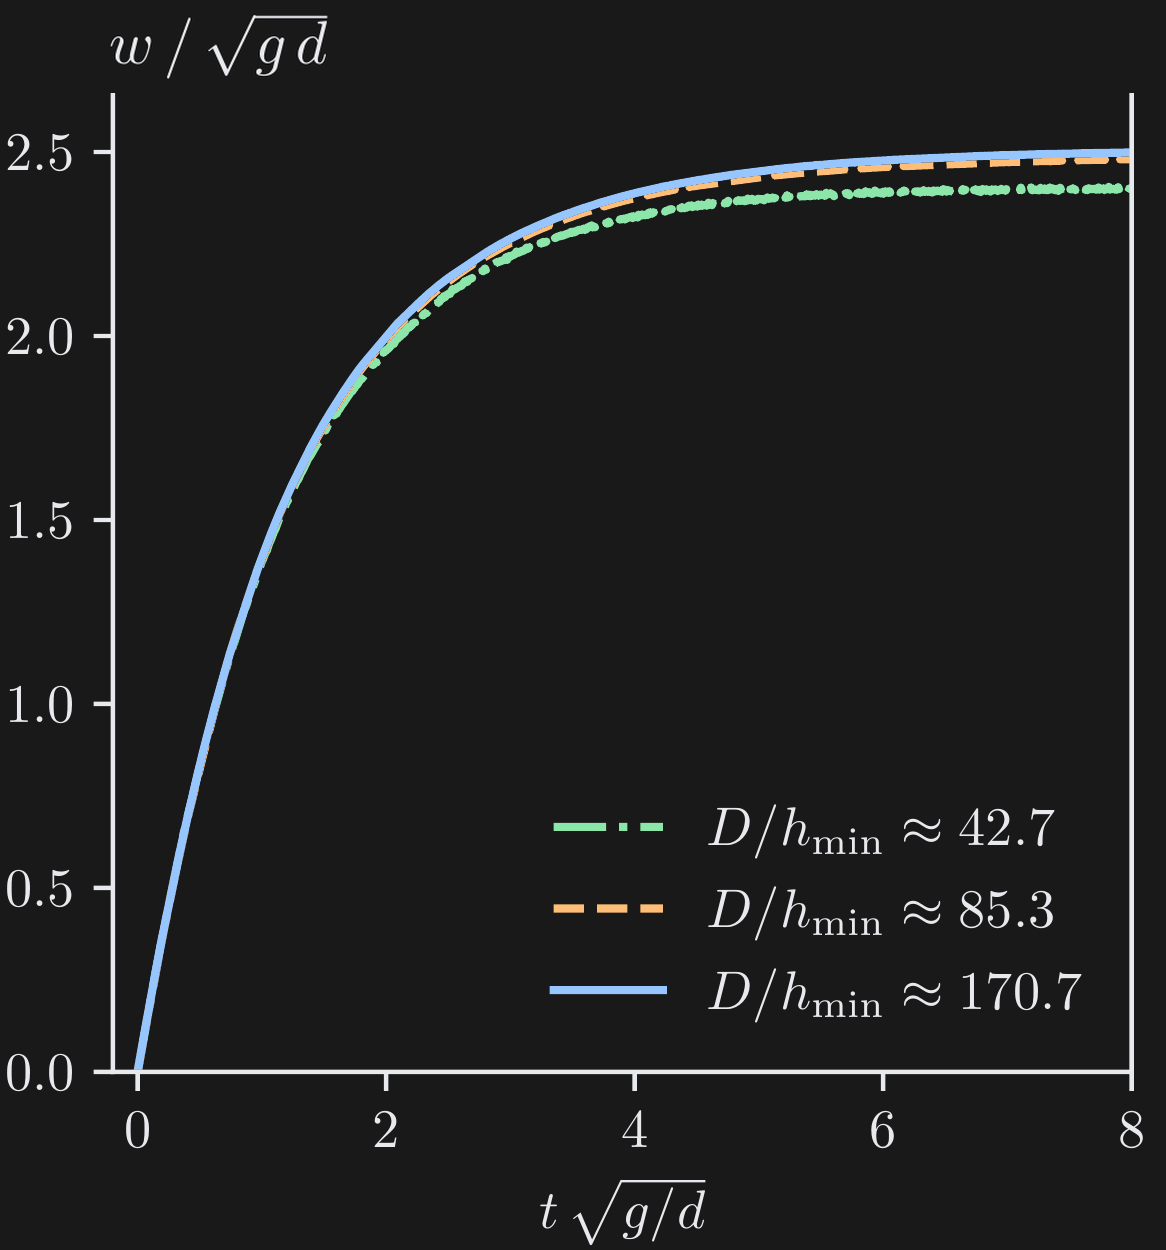
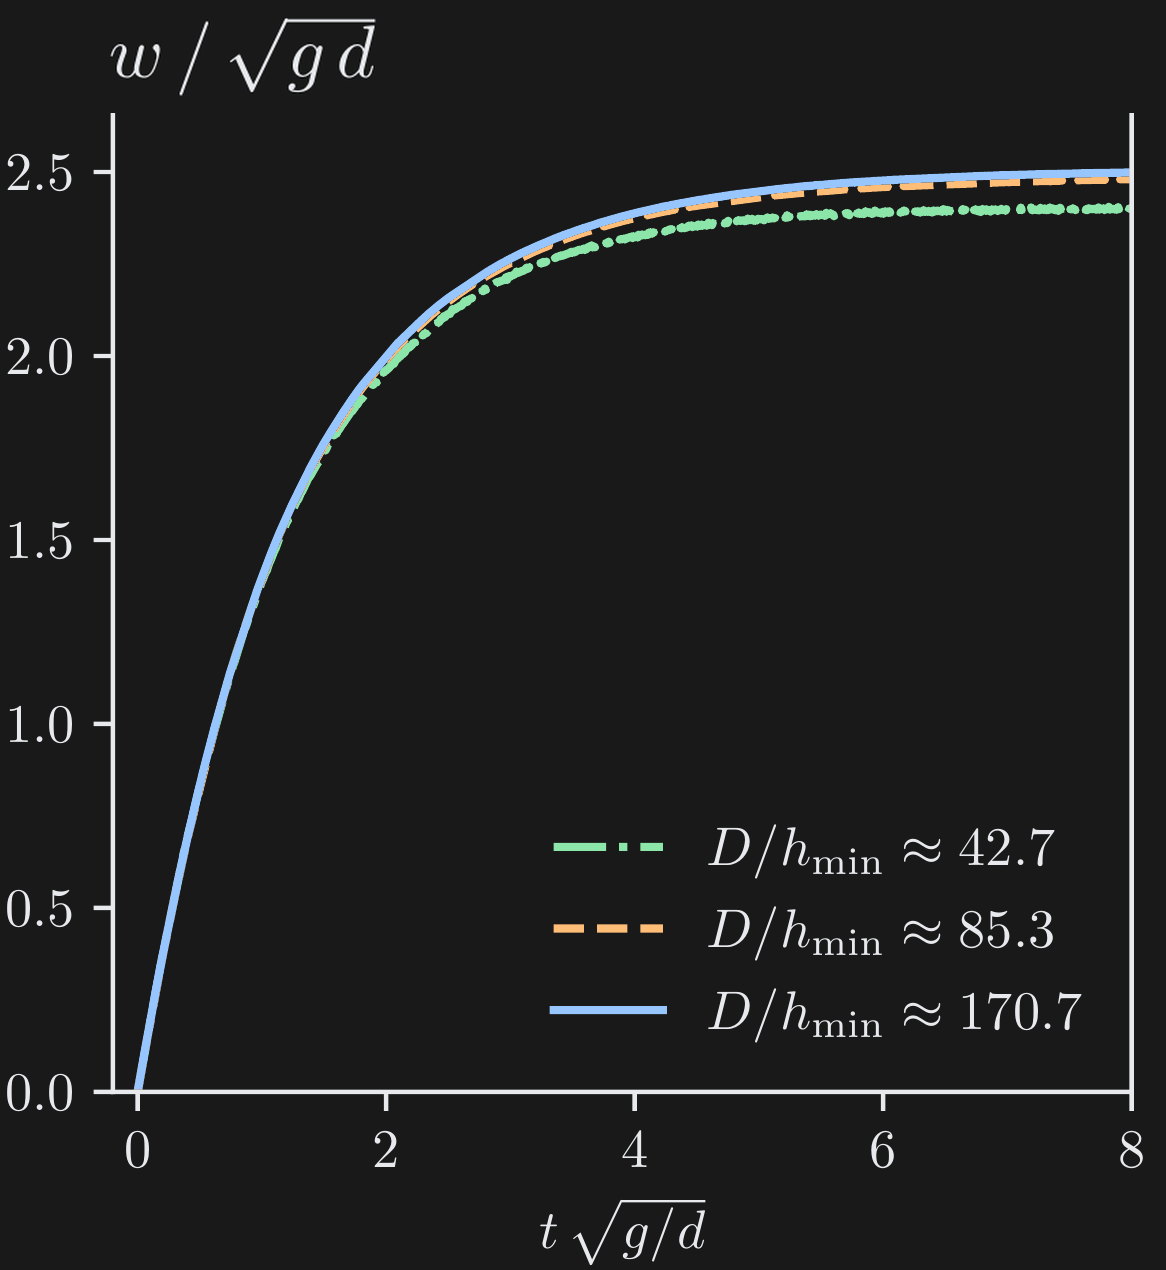
S02_v8: durch den Text, und mit einem Browser nachgemessen
index.html zeigt jetzt auf versions/S02_v8_2026-09-16.html; v1 bis v7 bleiben
daneben liegen, wie die Versionsregel es vorsieht.

Foliensatz
  - "aktuelle Aufgaben" klein; "Eigene Testfaelle"; "Kraftberechnung alt" und
    "neu" statt 1 und 2, dafuer faellt das "(neu)" im Text weg.
  - Die beiden Wege zur Oberflaechenspannung heissen Forcing (tension.h) und
    Linienintegral (integral.h), auf der Methodenfolie wie im Ausblick.
  - "Ausgangspunkt" nennt zuerst das Setup und die Adresse, dann die Angaben.
  - In (17.2) steht der zweite Teil unter dem ersten; die Nummer kommt mit der
    zweiten Zeile.
  - Der Dank bekommt sein Ausrufezeichen.

Abbildungen
  Die zwoelf Basilisk-Bilder sind neu erzeugt: "w/sqrt(gd)" steht jetzt auf 24
  Folienpixeln, "z/R" auf 18 -- auf derselben Kastenhoehe stand das z/R ohne
  Wurzelzeichen zu gross daneben. Die beiden Abbildungen der Gitterstudie
  ebenfalls: alles im Drehratenband auf einer Schriftgroesse (das Band damit
  94 statt 100 px hoch), die Panels 247 statt 234 px breit, 14 statt 8 px Luft
  ueber der Legende. Und die beiden Kraftvergleiche: die Legende fuehrt die
  Marken der Winkelbeschleunigung nicht mehr auf, die gestrichelten
  Senkrechten bleiben.

Nachgeprueft
  publish.sh hat jede geladene Datei gefunden (104 Adressen mit Kuerzel, 43
  Bilder und Videos). Und diesmal im Browser, mit check.html aus S00_main: 33
  Folien, keine fehlerhafte Formel, 208 Symbole und 119 Verweise gesetzt. Ein
[…]

diff --git a/versions/S02_v8_2026-09-16.html b/versions/S02_v8_2026-09-16.html
@@ -155,13 +155,22 @@
            implementiert (neu)" stand; die Klammer dort ist weg.
          * In (17.2) steht der zweite Teil unter dem ersten statt hinter ihm.
            Die beiden Gleichheitszeichen stehen damit in einer Flucht -- das
-           ist die Aussage, dasselbe F, zweimal geschrieben.
+           ist die Aussage, dasselbe F, zweimal geschrieben. Die Nummer kommt
+           mit der zweiten Zeile: neben der ersten allein haengt sie unter ihr
+           im Leeren, weil sie auf halber Hoehe beider Zeilen steht.
          * Der Dank bekommt sein Ausrufezeichen.
-         * Die Achsenbeschriftung der zwoelf Basilisk-Bilder wird nicht mehr
-           auf eine Kastenhoehe gebracht, sondern auf eine Schriftgroesse:
-           "z/R" baut niedriger als "w/sqrt(gd)" und stand deshalb zu gross
-           daneben. Alle zwoelf tragen jetzt dieselbe Schrift, und die Bilder
+         * Die Achsenbeschriftung der zwoelf Basilisk-Bilder hat zwei Masse
+           statt einem: das "w/sqrt(gd)" der Aufstiegsplots steht auf 24
+           Folienpixeln, das "z/R" der Gitterbilder auf 18. Vorher waren beide
+           auf dieselbe Kastenhoehe gebracht, und weil "z/R" ohne
+           Wurzelzeichen niedriger baut, stand es daneben zu gross. Die Bilder
            stehen 386 px hoch.
+         * Auf "Vergleich Kraefte" und "Vergleich Experiment" fuehrt die
+           Legende die Marken der Winkelbeschleunigung nicht mehr auf. Die
+           gestrichelten Senkrechten bleiben; was sie sagen, steht zwei Folien
+           davor im Drehratenband. Eine Legende auf einer Folie sagt, welche
+           Kurve welche ist, und ein vierter Eintrag, der keine Kurve meint,
+           wird als eine gelesen.
          * Die Gitterstudie: alles im Drehratenband steht auf einer
            Schriftgroesse (20 px statt 24 fuer die Achsenbeschriftungen), das
            Band kommt damit mit 94 statt 100 px aus. Die gewonnene Hoehe geht
@@ -260,6 +269,23 @@
        ihrer Groesse. Die Zeile ist deshalb weg; was bleibt, ist der Abstand
        zwischen beiden und der weggenommene Absatzabstand. */
     .reveal .eq p { margin: 0; }
+    /* Seit (17.2) zwei Zeilen hat, ist diese eine Folie eine Zeile
+       Formelsatz zu hoch fuer den Satzspiegel -- vierundfuenfzig Punkte,
+       gemessen mit S00_main/build/check.html.
+
+       Geholt werden sie aus dem Weissraum zwischen den vier Bloecken und
+       nicht aus der Schrift: die Formeln sind hier die Aussage, und eine
+       Folie, auf der sie kleiner stehen als auf der Folie davor, sagt das
+       Gegenteil. Zwischen den vier Bloecken standen rund neunzig Punkte Luft
+       -- die Abstaende addieren sich, weil .cols ein Flex ist und Raender
+       dort nicht zusammenfallen. Ein knappes Viertel davon bleibt; die
+       Gliederung liest sich noch, und die Folie endet zwoelf Punkte ueber der
+       Fusszeile. Wer hier etwas hinzufuegt, misst mit check.html nach.
+
+       Nur hier: auf jeder anderen Folie traegt derselbe Abstand die Luft, die
+       eine abgesetzte Formel braucht. */
+    .reveal .eng .eq { margin: 0.15em 0; }
+    .reveal .eng > .cols > p { margin-bottom: 0.25em; }
     /* Das Thema vor dem Folientitel: kleiner und zurueckgenommen, damit die
        Titel selbst ueberall gleich gross sind und die Folge FLUIDICS ... als
        Zugehoerigkeit gelesen wird und nicht als Teil der Ueberschrift.
@@ -1007,7 +1033,7 @@
   <h2><span class="topic">2 Basilisk</span>Testfall A</h2>
   <div class="stage">
 
-    <figure style="left:0px; top:28px; width:360px;">
+    <figure style="left:0px; top:28px; width:359px;">
       <img class="transparent" style="height:386px"
            src="../Figures/basilisk_grid_A_l10_deck_dark.png"
            alt="Adaptives Gitter um die Blase bei Verfeinerungsstufe 10:
@@ -1016,7 +1042,7 @@
       <figcaption><span class="panel">a)</span>adaptives Gitter, \(\ell = 10\)</figcaption>
     </figure>
 
-    <figure style="left:388px; top:28px; width:360px;">
+    <figure style="left:391px; top:28px; width:359px;">
       <img class="transparent" style="height:386px"
            src="../Figures/basilisk_grid_A_l12_deck_dark.png"
            alt="Dasselbe Gitter bei Verfeinerungsstufe 12: der feine Saum
@@ -1025,7 +1051,7 @@
       <figcaption><span class="panel">b)</span>adaptives Gitter, \(\ell = 12\)</figcaption>
     </figure>
 
-    <figure style="left:776px; top:28px; width:360px;">
+    <figure style="left:782px; top:28px; width:354px;">
       <img class="transparent" style="height:386px"
            src="../Figures/basilisk_ascent_A_deck_dark.png"
            alt="Aufstiegsgeschwindigkeit über der Zeit für drei
@@ -1064,7 +1090,7 @@
       <figcaption><span class="panel">a)</span>adaptives Gitter, \(\ell = 10\)</figcaption>
     </figure>
 
-    <figure style="left:388px; top:28px; width:348px;">
+    <figure style="left:391px; top:28px; width:348px;">
       <img class="transparent" style="height:386px"
            src="../Figures/basilisk_grid_B_l12_deck_dark.png"
            alt="Dasselbe Gitter bei Verfeinerungsstufe 12: der feine Saum
@@ -1073,7 +1099,7 @@
       <figcaption><span class="panel">b)</span>adaptives Gitter, \(\ell = 12\)</figcaption>
     </figure>
 
-    <figure style="left:776px; top:28px; width:360px;">
+    <figure style="left:782px; top:28px; width:354px;">
       <img class="transparent" style="height:386px"
            src="../Figures/basilisk_ascent_B_deck_dark.png"
            alt="Aufstiegsgeschwindigkeit über der Zeit für drei
@@ -1103,7 +1129,7 @@
   <h2><span class="topic">2 Basilisk</span>Testfall C</h2>
   <div class="stage">
 
-    <figure style="left:0px; top:28px; width:347px;">
+    <figure style="left:0px; top:28px; width:348px;">
       <img class="transparent" style="height:386px"
            src="../Figures/basilisk_grid_C_l9_deck_dark.png"
            alt="Adaptives Gitter um die Blase bei Verfeinerungsstufe 9:
@@ -1112,7 +1138,7 @@
       <figcaption><span class="panel">a)</span>adaptives Gitter, \(\ell = 9\)</figcaption>
     </figure>
 
-    <figure style="left:389px; top:28px; width:348px;">
+    <figure style="left:392px; top:28px; width:348px;">
       <img class="transparent" style="height:386px"
            src="../Figures/basilisk_grid_C_l12_deck_dark.png"
            alt="Dasselbe Gitter bei Verfeinerungsstufe 12: der feine Saum
@@ -1121,7 +1147,7 @@
       <figcaption><span class="panel">b)</span>adaptives Gitter, \(\ell = 12\)</figcaption>
     </figure>
 
-    <figure style="left:779px; top:28px; width:356px;">
+    <figure style="left:784px; top:28px; width:351px;">
       <img class="transparent" style="height:386px"
            src="../Figures/basilisk_ascent_C_deck_dark.png"
            alt="Aufstiegsgeschwindigkeit über der Zeit für drei
@@ -1151,7 +1177,7 @@
   <h2><span class="topic">2 Basilisk</span>Testfall D</h2>
   <div class="stage">
 
-    <figure style="left:0px; top:28px; width:348px;">
+    <figure style="left:0px; top:28px; width:349px;">
       <img class="transparent" style="height:386px"
            src="../Figures/basilisk_grid_D_l10_deck_dark.png"
            alt="Adaptives Gitter um die Blase bei Verfeinerungsstufe 10:
@@ -1160,7 +1186,7 @@
       <figcaption><span class="panel">a)</span>adaptives Gitter, \(\ell = 10\)</figcaption>
     </figure>
 
-    <figure style="left:390px; top:28px; width:348px;">
+    <figure style="left:392px; top:28px; width:349px;">
       <img class="transparent" style="height:386px"
            src="../Figures/basilisk_grid_D_l12_deck_dark.png"
            alt="Dasselbe Gitter bei Verfeinerungsstufe 12: der feine Saum
@@ -1169,7 +1195,7 @@
       <figcaption><span class="panel">b)</span>adaptives Gitter, \(\ell = 12\)</figcaption>
     </figure>
 
-    <figure style="left:780px; top:28px; width:356px;">
+    <figure style="left:784px; top:28px; width:351px;">
       <img class="transparent" style="height:386px"
            src="../Figures/basilisk_ascent_D_deck_dark.png"
            alt="Aufstiegsgeschwindigkeit über der Zeit für drei
@@ -1729,7 +1755,7 @@
 <section>
   <h2><span class="topic">3 FLUIDICS</span>Kraftberechnung neu</h2>
 
-  <div class="sm">
+  <div class="sm eng">
   <!-- Dieselbe Schriftgroesse wie auf der Folie davor: dort steht alles in
        .cols, und .cols verkleinert um 0,86. Hier ist es eine einzige Spalte
        ohne Abstand -- das Mass kommt damit aus derselben Regel und nicht aus
@@ -1794,7 +1820,12 @@
         &\class{fragment schritt-5}{{}= \frac{\mathrm{d}}{\mathrm{d}t} \int_{\tdomain} \density\, \bmu\, \mathrm{d}V
                  \;-\; \int_{\tdomain} \bm{f}\, \mathrm{d}V}
       \end{aligned} \]</p>
-    <p class="muted fragment schritt-4">(17.2)</p>
+    <!-- Die Nummer kommt mit der zweiten Zeile und nicht mit der ersten. Sie
+         steht in der Flexzeile neben der ganzen Formel, also auf halber Hoehe
+         der beiden Zeilen -- und solange nur die obere da ist, haengt sie
+         unter ihr im Leeren. Mit dem zweiten Schritt steht sie neben dem, was
+         sie nummeriert. -->
+    <p class="muted fragment schritt-5">(17.2)</p>
   </div>
 </div>
 </div>
